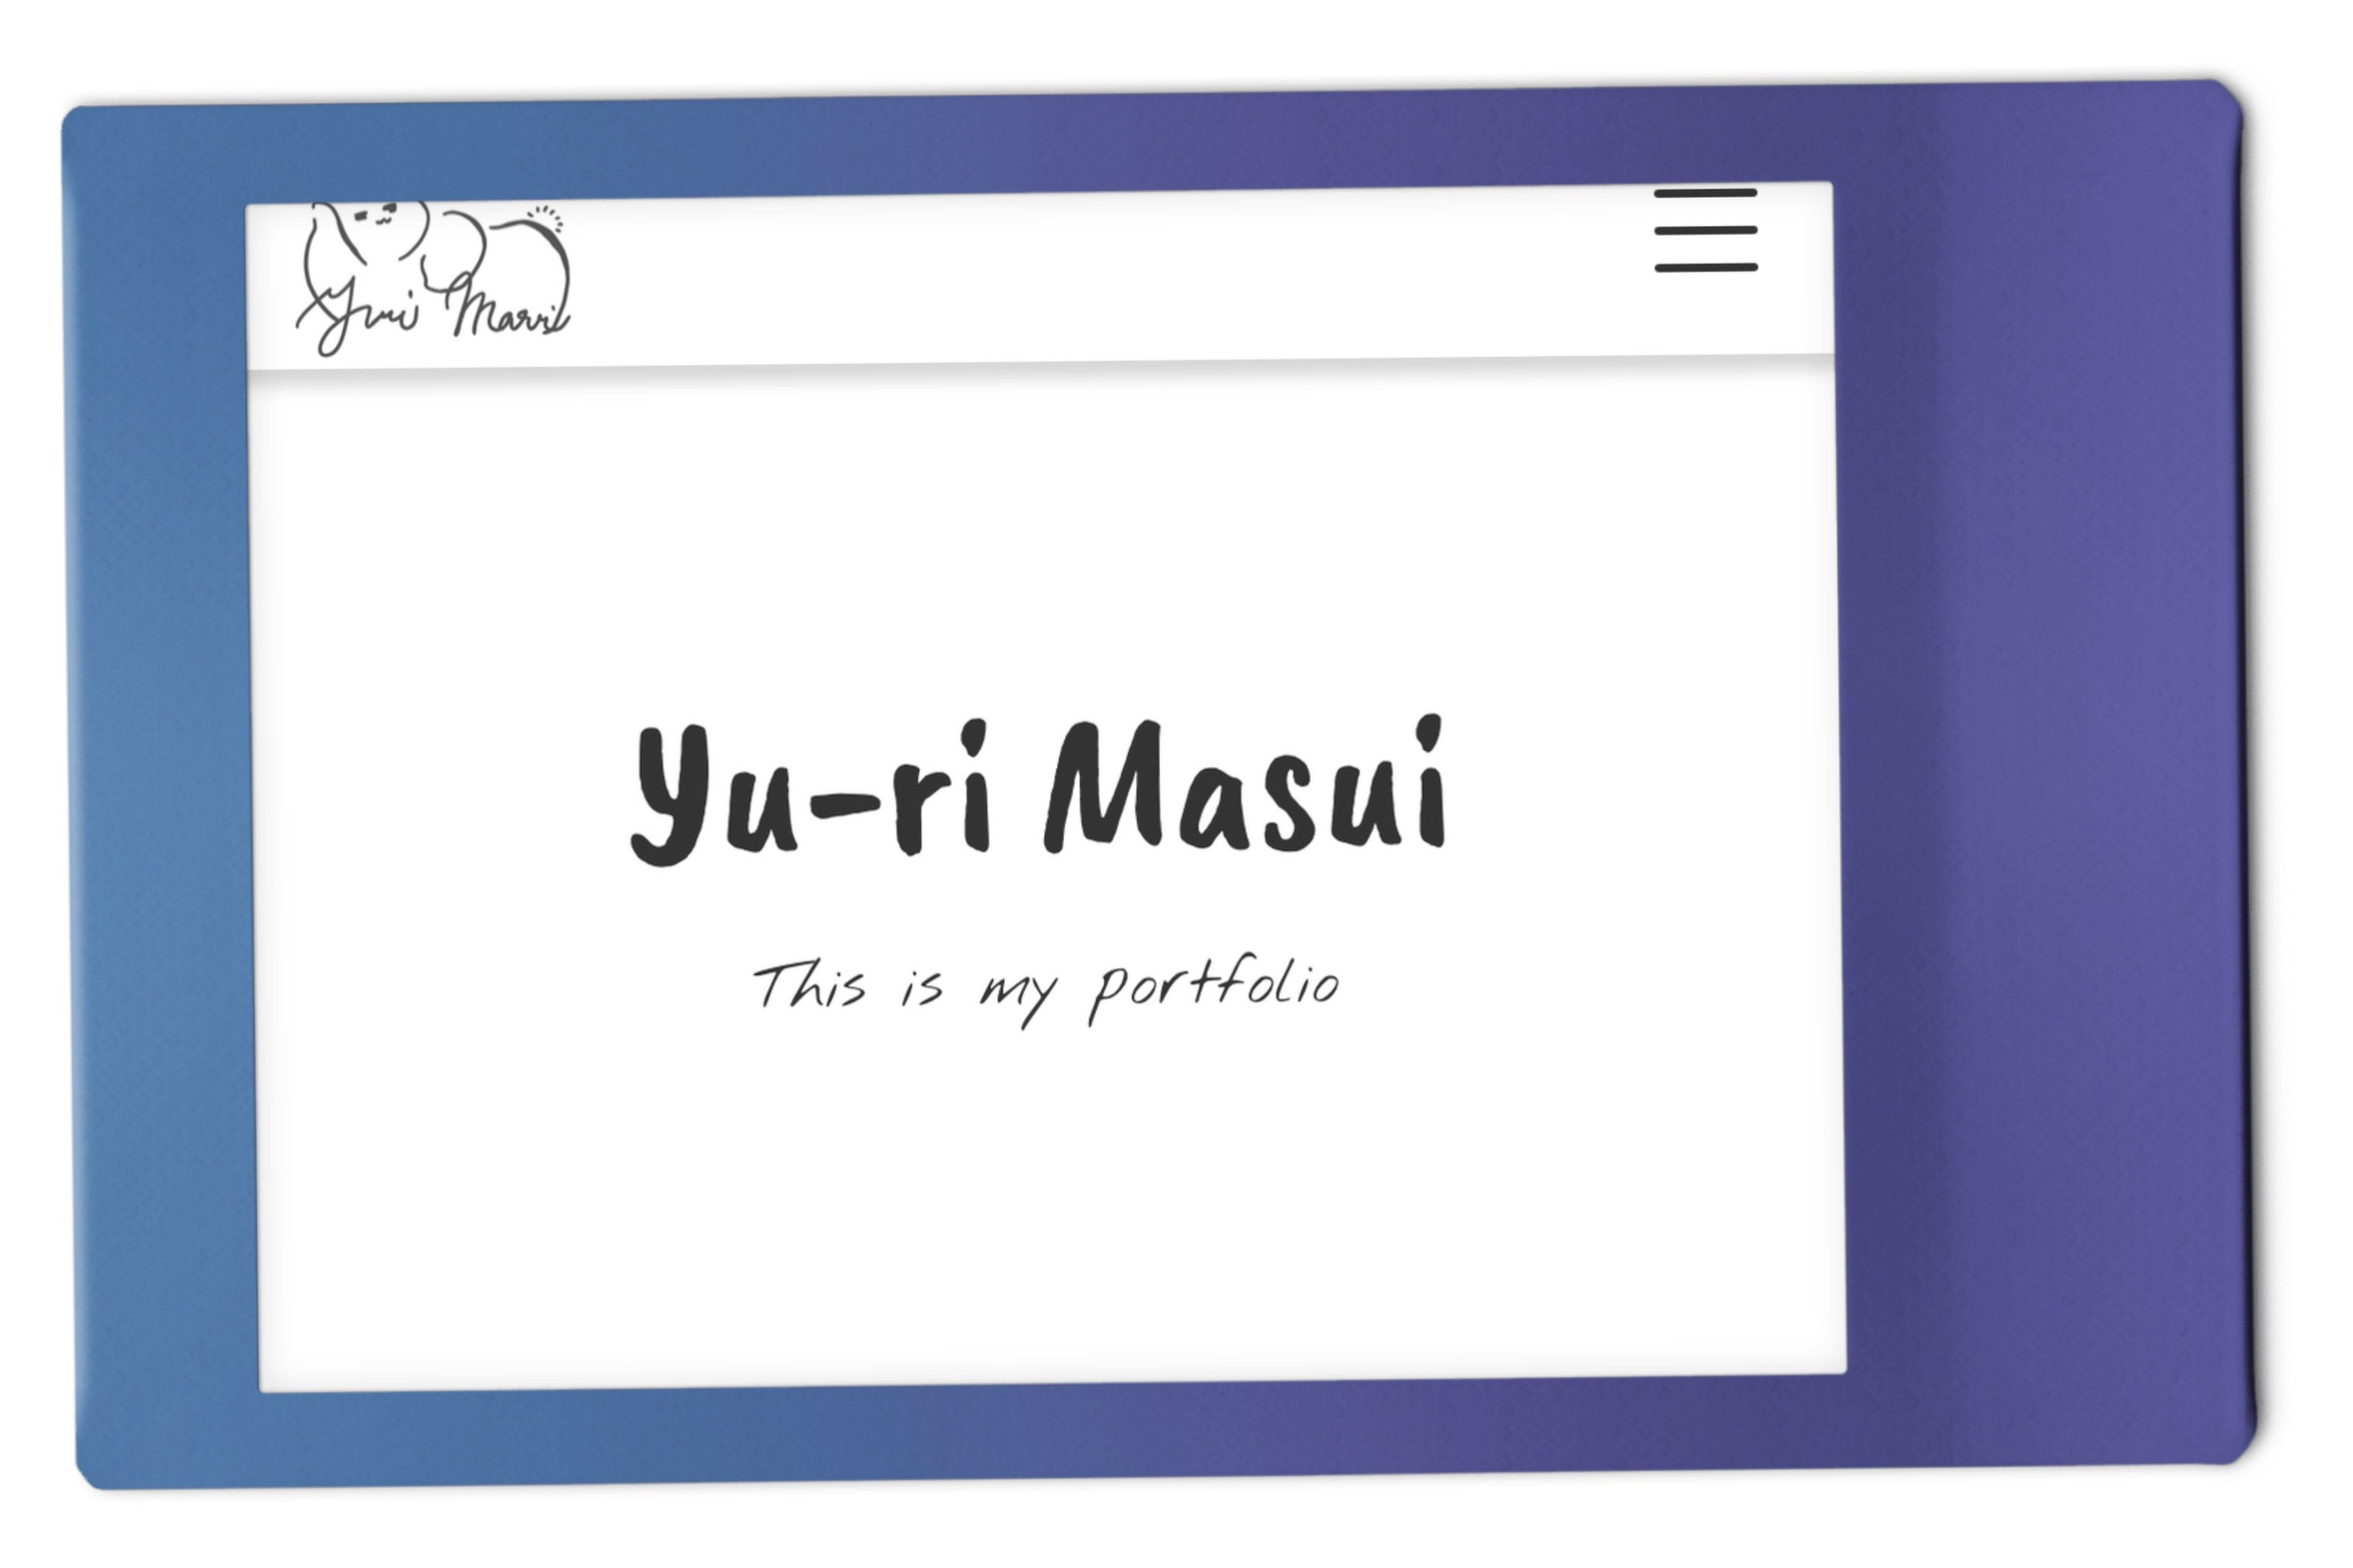
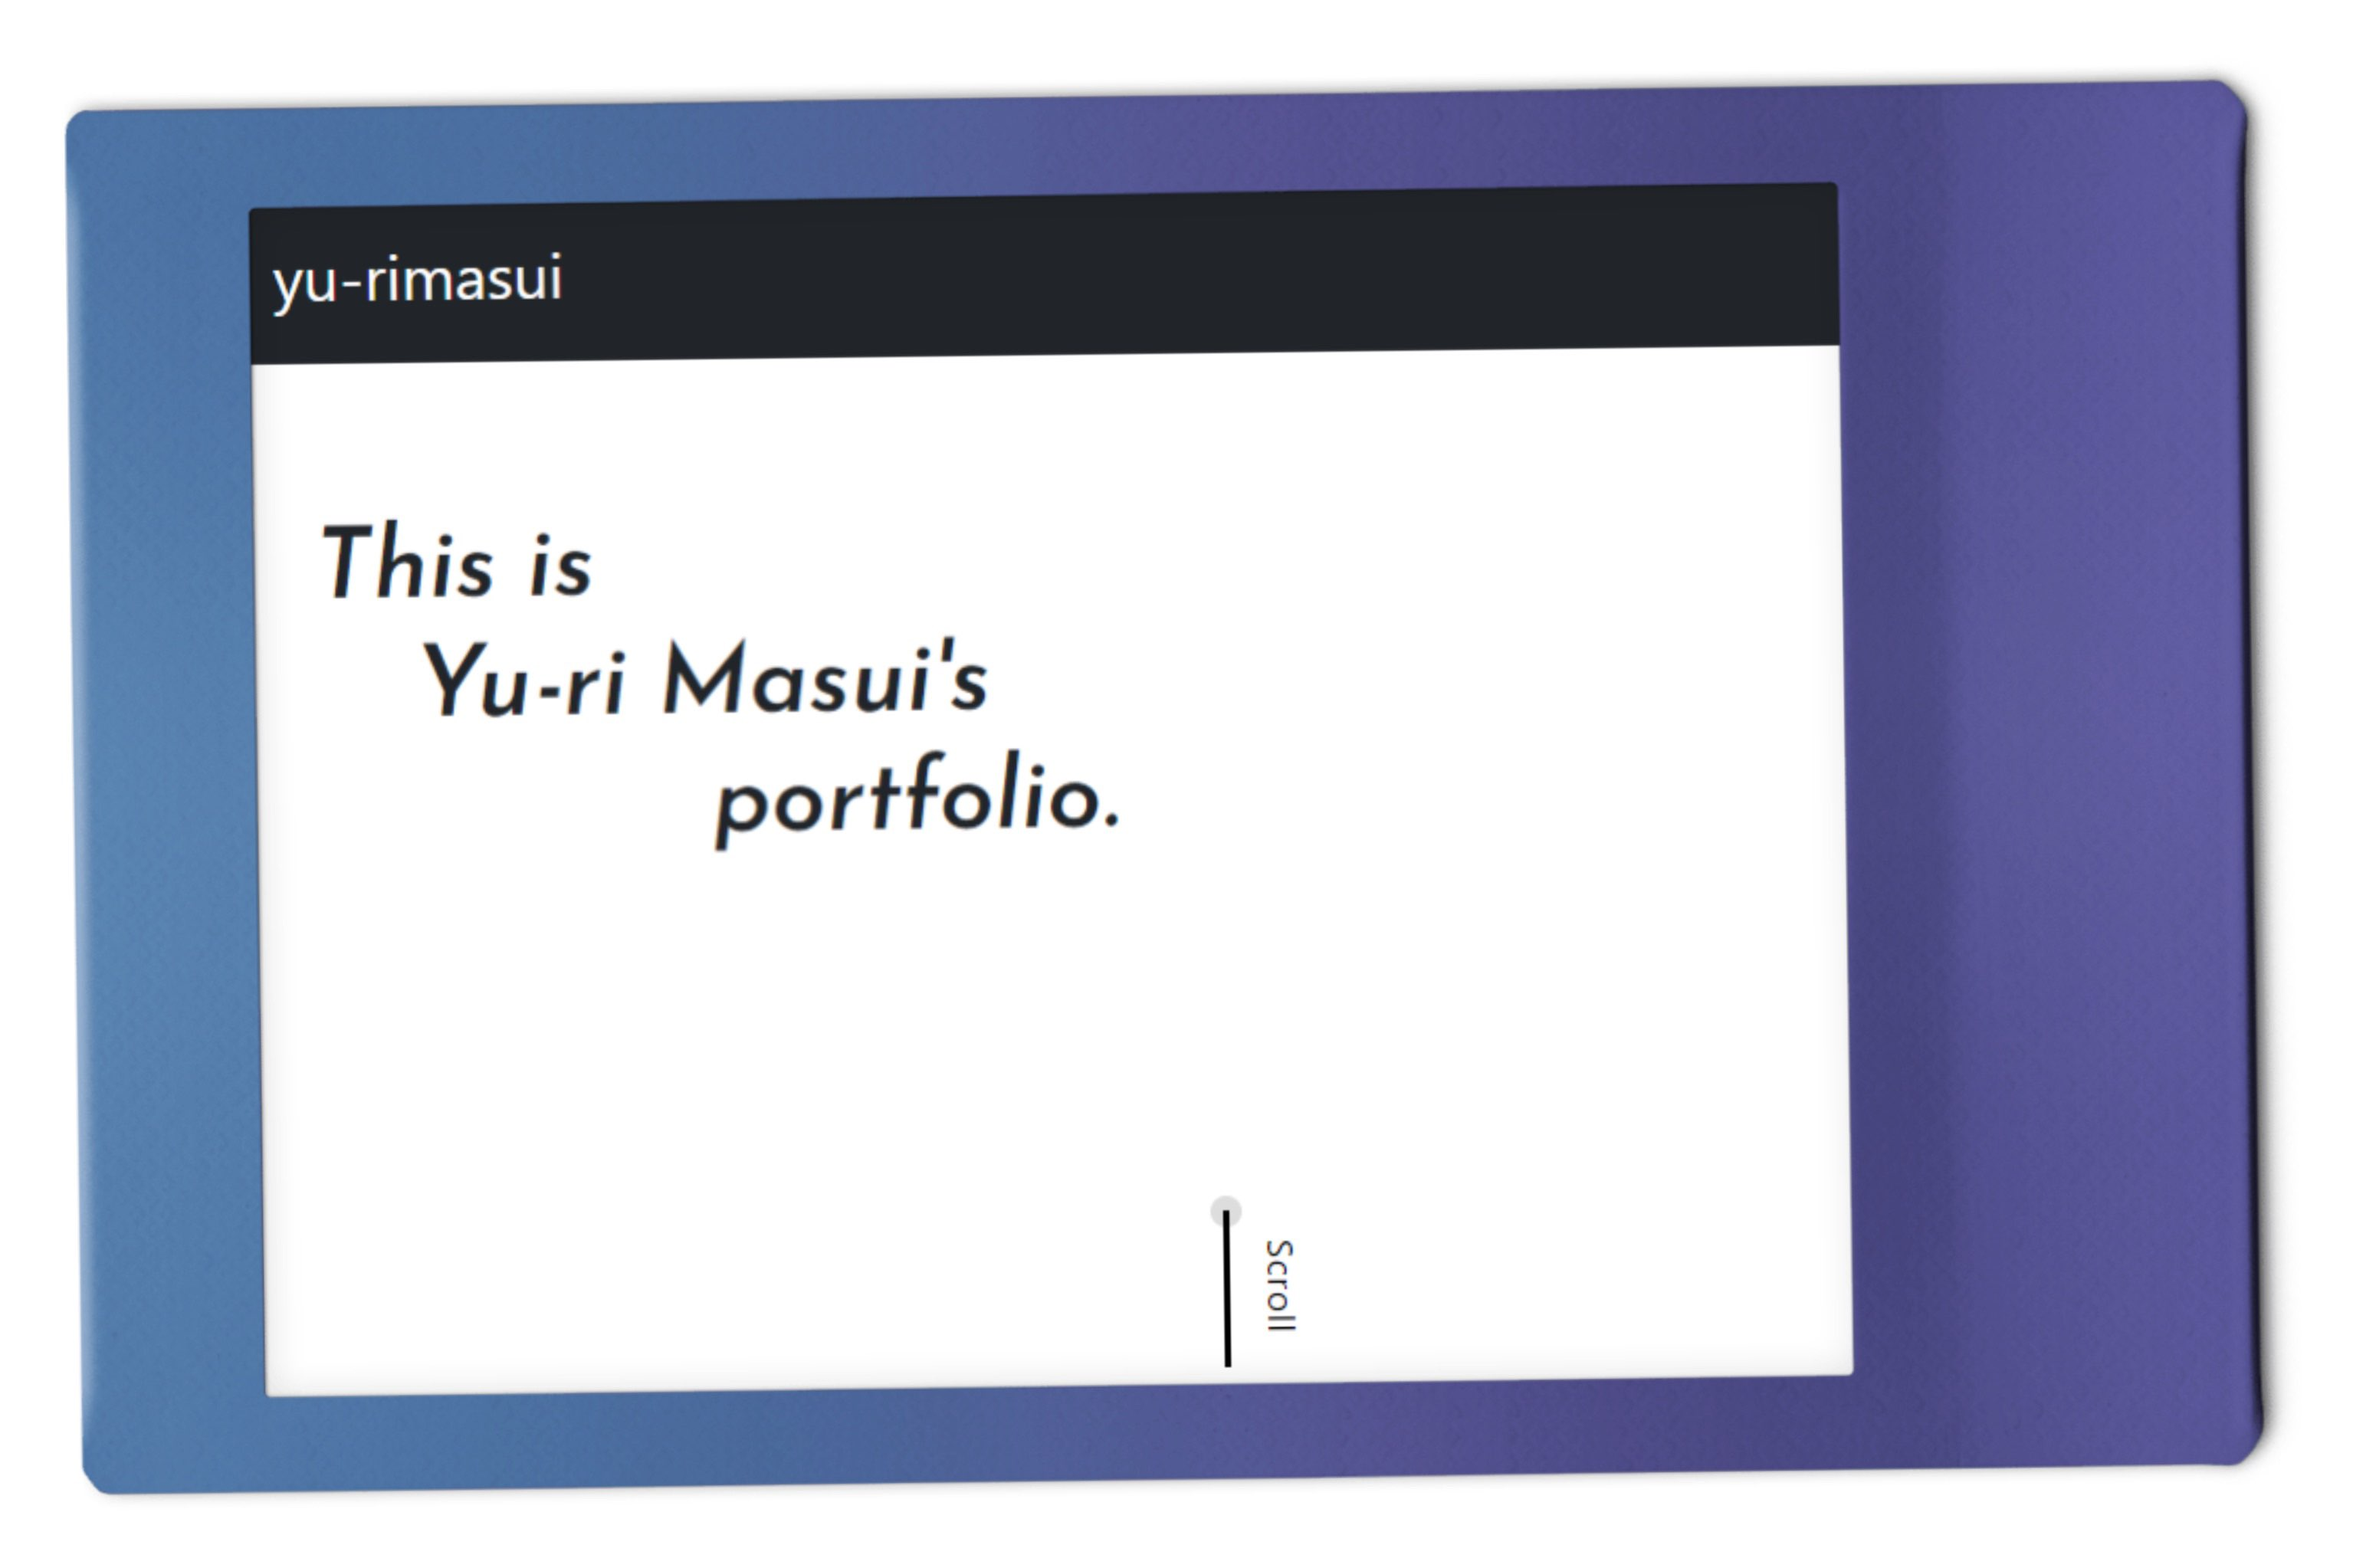
更新

diff --git a/src/index.html b/src/index.html
@@ -77,7 +77,7 @@
                   >Contact</a
                 >
               </li>
-              <li class="nav-item pt-3">
+              <li class="nav-item">
                 <a
                   class="nav-link"
                   href="https://github.com/yu-rimasui"
@@ -109,19 +109,101 @@
         <div class="card my-3" style="max-width: 40rem">
           <img src="img/about.jpg" class="card-img-top" alt="about me" />
           <div class="card-body">
-            <p>　増井 夕莉</p>
             <p>
-              ・東京出身の21歳。<br />
-              ・自分の作りたいものを、企画して、仕組みを考え、実装していく流れと、
-              完成したときの達成感が好き。<br />
-              ・現在は、リマインダーアプリをつくってて、FireBaseに苦戦中。<br />
-              ・ReactNativeも勉強し始めました。
-            </p>
-            <p class="pt-4">　使用言語は…</p>
-            <p>
-              HTML, CSS, JavaScript, React, TypeScript, Nodejs, MySQL, AWS 等<br />
+              ・はじめまして。masuiと申します。平成14年生まれの21歳エンジニアです。<br />
+              ・趣味は、お笑い観賞・ドラマ・映画。芸人は、特に空気階段が好きでラジオも聞いてます。<br />
+              ・Web開発は、自分が作りたいとイメージしたものを企画・設計・実装していく過程や、
+              完成したときの達成感が好きです。<br />
+              ・将来は、実現したい夢があり、まずはフルスタックエンジニアになってIoT業界に参画したいと考えています。<br />
             </p>
           </div>
+        </div>
+      </div>
+
+      <!-- skills -->
+      <div id="skills" class="mx-3 my-5">
+        <h2 class="fw-bold">skills</h2>
+        <!-- <p class="p-4 fs-1">
+          If you don’t like where you are, change it. You’re not a tree.
+        </p> -->
+        <div class="m-0">
+          <!-- skillsカード(ASC) -->
+          <article class="card my-3" style="max-width: 40rem">
+            <div class="card-header">デザイン・コーディング</div>
+            <p class="card-text pt-3">
+              　CSSのフレームワークはBootstrapやTailwind(DasiyUI)を使います。
+            </p>
+            <table class="table table-borderless mx-5">
+              <thead>
+                <tr>
+                  <th scope="col">技術</th>
+                  <th scope="col">経験年数</th>
+                </tr>
+              </thead>
+              <tbody>
+                <tr>
+                  <th scope="row">HTML</th>
+                  <td>1年</td>
+                </tr>
+                <tr>
+                  <th scope="row">CSS</th>
+                  <td>半年</td>
+                </tr>
+              </tbody>
+            </table>
+          </article>
+          <article class="card my-3" style="max-width: 40rem">
+            <div class="card-header">フロントエンド</div>
+            <p class="card-text pt-3">
+              　JavaScriptのライブラリにはReact.jsを使っています。
+            </p>
+            <table class="table table-borderless mx-5">
+              <thead>
+                <tr>
+                  <th scope="col">技術</th>
+                  <th scope="col">経験年数</th>
+                </tr>
+              </thead>
+              <tbody>
+                <tr>
+                  <th scope="row">C</th>
+                  <td>1年</td>
+                </tr>
+                <tr>
+                  <th scope="row">JavaScript</th>
+                  <td>半年</td>
+                </tr>
+              </tbody>
+            </table>
+          </article>
+          <article class="card my-3" style="max-width: 40rem">
+            <div class="card-header">バックエンド</div>
+            <p class="card-text py-3">　勉強中です。。</p>
+          </article>
+          <article class="card my-3" style="max-width: 40rem">
+            <div class="card-header">データベース</div>
+            <p class="card-text pt-3">
+              　これからどんどんアウトプットしていきます。
+            </p>
+            <table class="table table-borderless mx-5">
+              <thead class="">
+                <tr>
+                  <th scope="col">技術</th>
+                  <th scope="col">経験年数</th>
+                </tr>
+              </thead>
+              <tbody>
+                <tr>
+                  <th scope="row">MySQL</th>
+                  <td>半年</td>
+                </tr>
+                <tr>
+                  <th scope="row">FireBase</th>
+                  <td>半年</td>
+                </tr>
+              </tbody>
+            </table>
+          </article>
         </div>
       </div>
 
@@ -132,24 +214,22 @@
           If you don’t like where you are, change it. You’re not a tree.
         </p>
         <div class="m-0">
-          <!-- カード(ASC) -->
+          <!-- worksカード(ASC) -->
           <article class="card my-3" style="max-width: 40rem">
             <img src="img/work01.jpg" class="card-img-top" alt="..." />
             <div class="card-body">
-              <h5 class="card-title">Portfolio ver.01</h5>
-              <p class="card-text">
-                webデザインを学習して一番最初に作った制作物。<br />
-                こだわりはうさぎのロゴ。我ながら自分の書くうさぎが好き。
-              </p>
+              <h5 class="card-title">Portfolio</h5>
+              <p class="card-text">自分自身のポートフォリオです。</p>
+              <p class="card-text">HTML/CSS/bootstrap</p>
               <a
-                href="https://yu-rimasui.github.io/portfolio/"
+                href="https://my-portfolio-jade-nine-56.vercel.app/"
                 class="btn btn-outline-dark"
                 target="_blank"
                 >Take a look 😊</a
               >
             </div>
           </article>
-          <article class="card my-3" style="max-width: 40rem">
+          <!-- <article class="card my-3" style="max-width: 40rem">
             <img src="img/work02.jpg" class="card-img-top" alt="..." />
             <div class="card-body">
               <h5 class="card-title">Cafe Site</h5>
@@ -164,15 +244,16 @@
                 >Take a look ☕</a
               >
             </div>
-          </article>
+          </article> -->
           <article class="card my-3" style="max-width: 40rem">
             <img src="img/work03.jpg" class="card-img-top" alt="..." />
             <div class="card-body">
               <h5 class="card-title">Calculator</h5>
               <p class="card-text">
-                React勉強したくてつくった初めてのWebアプリ。<br />
-                電卓以外の要素にこだわってしまいました笑
+                電卓のWebアプリです。<br />
+                Reactのアウトプットと遊び心で作りました。<br />
               </p>
+              <p class="card-text">HTML/CSS/Bootstrap/JavaScript(React)</p>
               <a
                 href="https://yu-rimasui.github.io/calculator/"
                 class="btn btn-outline-dark"
@@ -186,11 +267,15 @@
             <div class="card-body">
               <h5 class="card-title">Weekly Calendar</h5>
               <p class="card-text">
-                初めてCRUDを意識してつくったアプリ。<br />
-                一週間の予定を、時間割アプリのように管理するアプリ。<br />
-                デザインも気に入ってないし、データベースにつなげて
-                端末ごとに表示できるようにしたい。<br />
-                課題残ってます。。
+                一週間の時間割アプリです。<br />
+                　大学の時間割アプリに加えて、
+                バイトなど毎週固定の予定を組み込めるアプリが欲しいと思い、
+                実装しました。<br />
+                　予定の時間をスケジュールアプリのように
+                自由に設定できるようにしたところがこだわりです。
+              </p>
+              <p class="card-text">
+                HTML/CSS/BootStrap/JavaScript(React)/Nodejs/MySQL
               </p>
               <a
                 href="https://yu-rimasui.github.io/scheduleApp/"
@@ -205,11 +290,15 @@
             <div class="card-body">
               <h5 class="card-title">Reminder App</h5>
               <p class="card-text">
-                卒業制作（未完成）<br />
-                タスク管理する管理者と、タスクを閲覧するユーザーに機能が分かれていて、
-                一定のコミュニティに対して、タスクの一括管理ができます。<br />
-                ログイン機能など実装したい機能がたくさん追加される予定(？)
+                同期型タスク管理アプリです。<br />
+                　大学の課題ページが使いづらいと感じたので、
+                ゼミや研究室等で使えるタスク管理アプリを作りました。<br />
+                　仕様は、タスク管理(追加・編集・削除)できる管理者画面と、
+                タスクを閲覧できるユーザー画面を作り、
+                ログイン画面によって2つを切り替えられるようにしました。<br />
+                　一定のコミュニティに対して、タスクの一括管理ができるところがポイントです。<br />
               </p>
+              <p class="card-text">TailWind/JavaScript(React)/FireBase</p>
               <a
                 href="https://yu-rimasui.github.io/work06_reminder/"
                 class="btn btn-outline-dark"
